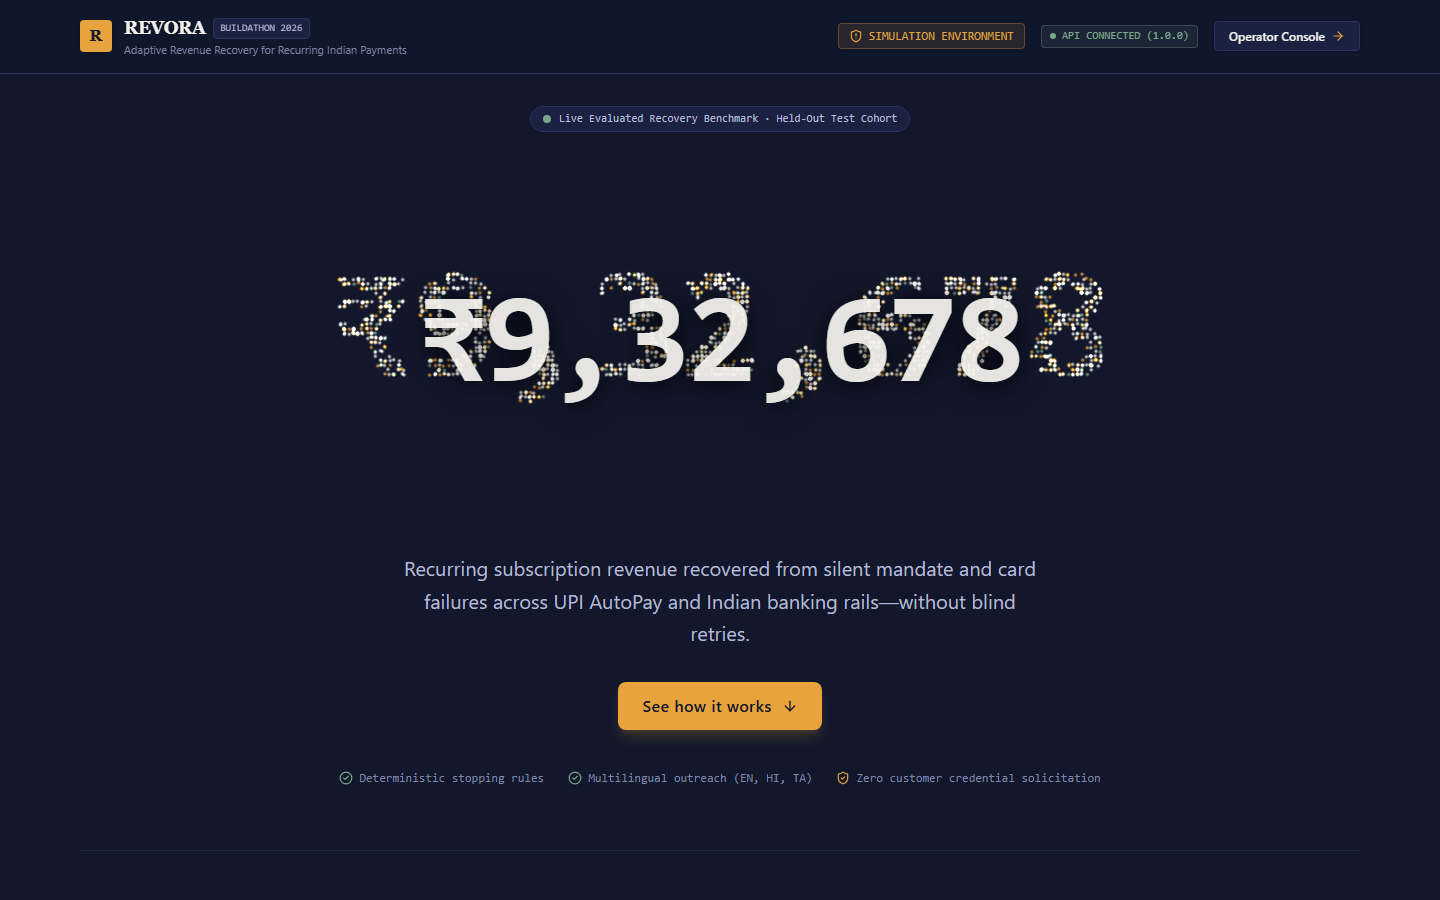
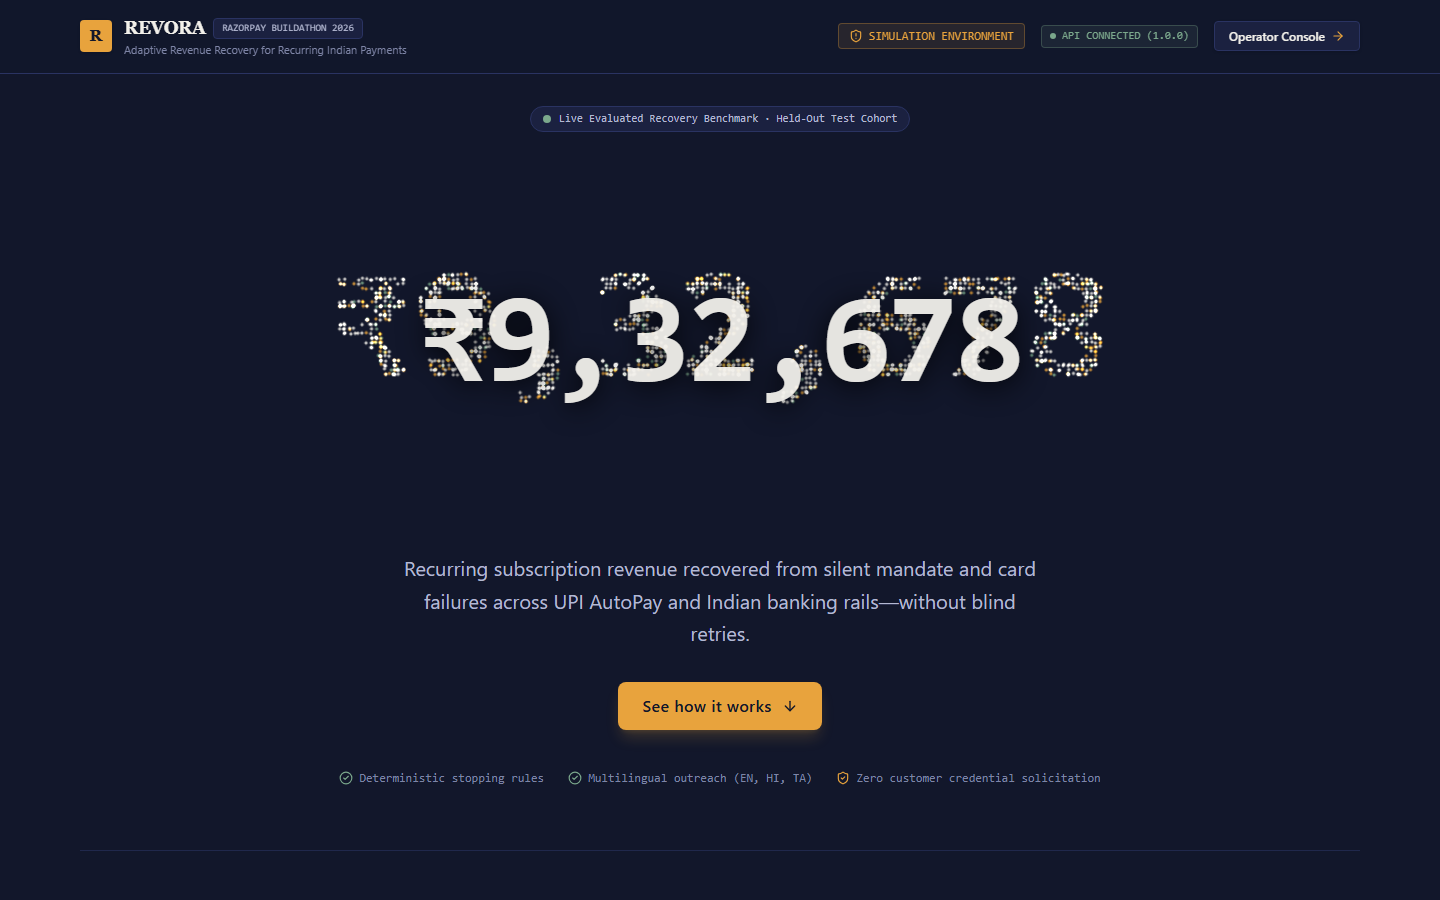
chore(branding): update event badge for Razorpay Buildathon 2026

diff --git a/frontend/src/components/landing/LandingHeader.tsx b/frontend/src/components/landing/LandingHeader.tsx
@@ -33,8 +33,8 @@ export const LandingHeader: React.FC = () => {
           <div>
             <div className="flex items-center gap-2">
               <span className="text-lg font-serif font-bold tracking-tight text-[#F2F0EA]">REVORA</span>
-              <span className="text-[10px] font-mono uppercase px-1.5 py-0.5 rounded bg-[#1B2140] text-[#B4B9D2] border border-[#2A3362]">
-                Buildathon 2026
+              <span className="text-[10px] font-mono uppercase px-2 py-0.5 rounded bg-[#1B2140] text-[#B4B9D2] border border-[#2A3362]">
+                Razorpay Buildathon 2026
               </span>
             </div>
             <p className="text-[11px] text-[#7E85A6] hidden sm:block">
